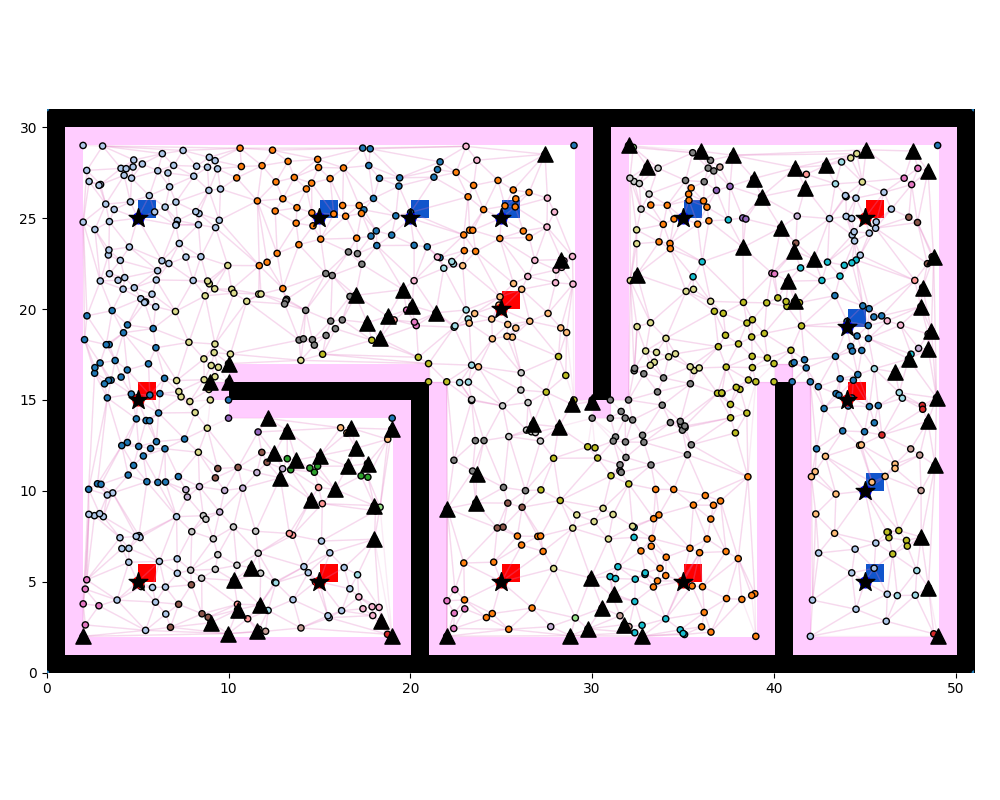
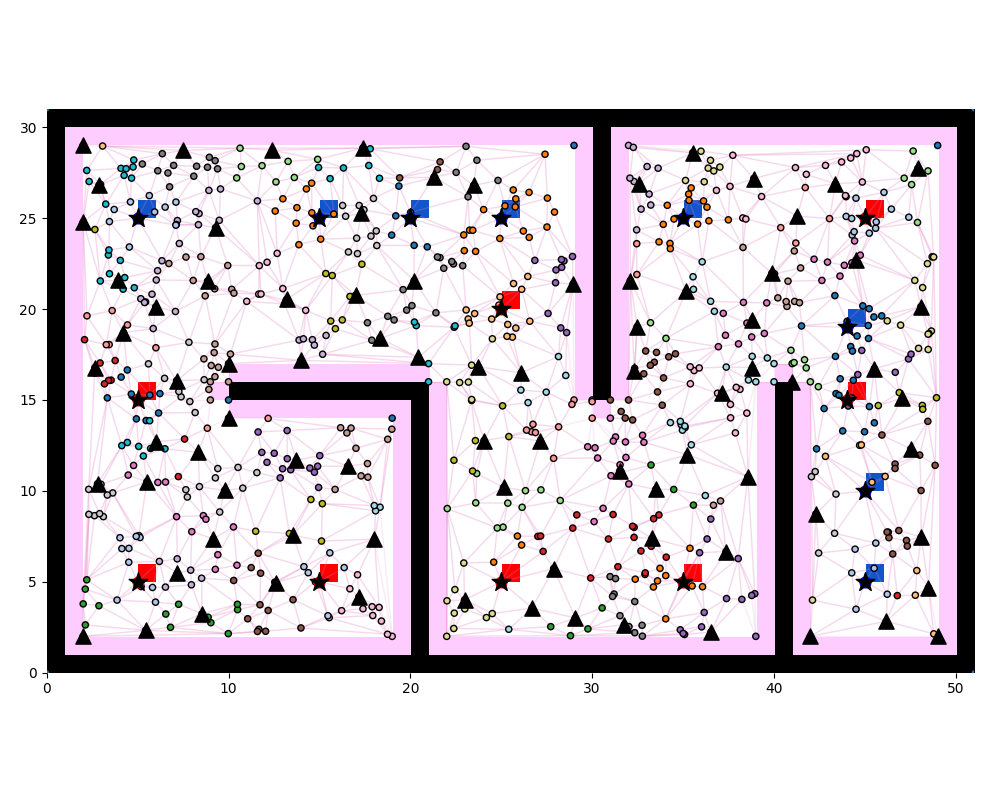
Add an adaptive radius using a median free-component

diff --git a/path_planning/cluster/em/graph_em.py b/path_planning/cluster/em/graph_em.py
@@ -19,10 +19,12 @@ components:
 
 EM has no repulsion between components — co-located duplicates are a
 stationary point of the likelihood — so free anchors additionally keep a
-minimum Euclidean spacing ``dup_radius``: a free component whose updated
-anchor would land within that radius of an already-placed anchor is
-treated as a duplicate and re-seeded at the node farthest from every
-anchor (the same rescue empty components get).
+minimum Euclidean spacing of ``max(dup_radius, median free-component
+sigma)``, recomputed every M-step: components packed closer than their
+own typical width overlap almost entirely and are duplicates whatever
+the map resolution. A free anchor that would violate the spacing is
+re-seeded at the farthest spacing-respecting node — the same rescue
+empty components get.
 
 Because Dijkstra needs graph sources, every component is anchored to a
 roadmap node (``center_node_indices``); the continuous ``centers`` are
@@ -72,11 +74,13 @@ class GraphEM:
             is not strictly monotone across them).
         min_sigma: Floor on every component's sigma, preventing variance
             collapse onto a single node (default: the map resolution).
-        dup_radius: Minimum Euclidean spacing between anchors. A free
-            component whose updated anchor would land within this distance
-            of an already-placed anchor is re-seeded at the node farthest
-            from every anchor instead of duplicating it (default: the map
-            resolution; 0 disables the guard).
+        dup_radius: Floor on the Euclidean spacing between anchors. The
+            effective spacing each M-step is ``max(dup_radius, median
+            free-component sigma)`` — components must stay about one
+            component-width apart — and a free anchor that would land
+            inside it is re-seeded at the farthest spacing-respecting
+            node instead of duplicating an existing component (default
+            floor: the map resolution; 0 disables the guard entirely).
         init: Top-up seeding for the free components — ``"kpp"`` samples
             nodes with probability proportional to squared graph distance
             from the current anchors (k-means++ style, reproducible via the
@@ -397,9 +401,11 @@ class GraphEM:
         Free anchors snap to the hard-member (argmax-responsibility) node
         nearest the weighted mean — hard members belong to exactly one
         component, so anchors can never collide across components. An
-        anchor that would still land within ``dup_radius`` of an
-        already-placed one is a duplicate (EM never separates co-located
-        components) and is re-seeded like an empty component.
+        anchor that would still land within the spacing radius
+        ``max(dup_radius, median free sigma)`` of an already-placed one
+        is a duplicate (EM never separates components that overlap by
+        more than their width) and is re-seeded like an empty component;
+        re-seeds honor the same spacing while a candidate exists.
         """
         n_reach = max(int(reachable.sum()), 1)
         r = resp[:, reachable]
@@ -417,9 +423,18 @@ class GraphEM:
         placed = [self._points[s] for s in sources[:num_fixed]]
         min_dist = np.min(D, axis=0)
         global_rms = float(np.sqrt(np.mean(np.square(min_dist[reachable]))))
+        # Adaptive spacing: about one typical component width, floored at
+        # dup_radius (0 keeps the guard disabled).
+        spacing = 0.0
+        if self.dup_radius > 0.0:
+            free_sigmas = sigmas[num_fixed:]
+            spacing = max(
+                self.dup_radius,
+                float(np.median(free_sigmas)) if free_sigmas.size else 0.0,
+            )
 
         def reseed(k: int, reason: str) -> None:
-            cand = self._reseed_node(min_dist, taken, placed)
+            cand = self._reseed_node(min_dist, taken, placed, spacing)
             if cand is None:
                 logger.warning(
                     "component %d is %s and cannot be re-seeded", k, reason
@@ -450,7 +465,7 @@ class GraphEM:
             nearest = int(
                 members[np.argmin(np.linalg.norm(self._points[members] - mean, axis=1))]
             )
-            if self._too_close(self._points[nearest], placed):
+            if self._too_close(self._points[nearest], placed, spacing):
                 reseed(k, "a duplicate")
                 continue
             new_sources[k] = nearest
@@ -464,21 +479,28 @@ class GraphEM:
                 snapped[k] = True
         return weights / weights.sum(), sigmas, new_sources
 
-    def _too_close(self, pos: np.ndarray, placed: List[np.ndarray]) -> bool:
-        """True if ``pos`` is within ``dup_radius`` of a placed anchor."""
-        if self.dup_radius <= 0.0 or not placed:
+    @staticmethod
+    def _too_close(
+        pos: np.ndarray, placed: List[np.ndarray], spacing: float
+    ) -> bool:
+        """True if ``pos`` is within ``spacing`` of a placed anchor."""
+        if spacing <= 0.0 or not placed:
             return False
         d = np.linalg.norm(np.asarray(placed) - pos, axis=1)
-        return bool(np.min(d) < self.dup_radius)
+        return bool(np.min(d) < spacing)
 
     def _reseed_node(
-        self, min_dist: np.ndarray, taken: set, placed: List[np.ndarray]
+        self,
+        min_dist: np.ndarray,
+        taken: set,
+        placed: List[np.ndarray],
+        spacing: float,
     ) -> Optional[int]:
         """Reachable node farthest from every anchor, not already an anchor.
 
-        Candidates within ``dup_radius`` of a placed anchor are skipped
-        while a spaced alternative exists; if none does, the farthest
-        non-anchor node is returned regardless.
+        Candidates within ``spacing`` of a placed anchor are skipped while
+        a spaced alternative exists; if none does, the farthest non-anchor
+        node is returned regardless.
         """
         order = np.argsort(min_dist)[::-1]
         fallback = None
@@ -488,6 +510,6 @@ class GraphEM:
                 continue
             if fallback is None:
                 fallback = idx
-            if not self._too_close(self._points[idx], placed):
+            if not self._too_close(self._points[idx], placed, spacing):
                 return idx
         return fallback
